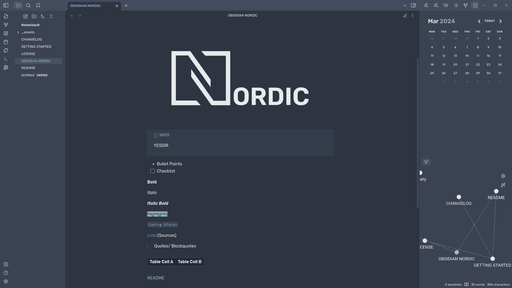
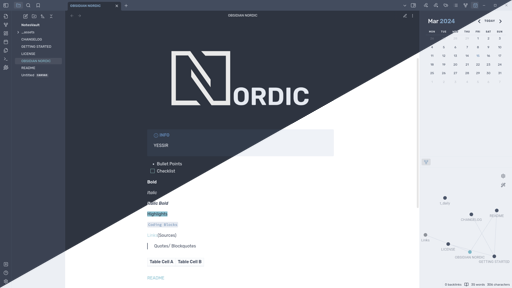
chore(project): update readme; update screenshot

diff --git a/README.md b/README.md
@@ -1,21 +1,20 @@
-# Obisidan Nordic
+# Nordic for Obsidian
 > A theme for obsidian inspired by https://www.nordtheme.com/ with a pinch of person preference
 
-[![Release](https://github.com/natowb/obsidian-nordic/actions/workflows/release.yml/badge.svg)](https://github.com/natowb/obsidian-nordic/actions/workflows/release.yml)
+![](assets/obsidian-nordic-full.png)
+
 ---
 
 
 
-![](assets/obsidian-nordic.png)
----
+## Plugins
+> This is a list of all the plugins the theme currently explicitly supports
 
-# Preview
-![](assets/dark-theme.png)
-![](assets/light-theme.png)
-
+- [Dataview](https://github.com/blacksmithgu/obsidian-dataview)
+- [Calendar](https://github.com/liamcain/obsidian-calendar-plugin)
 
 
-**Credits**
-- [obsidian nord](https://github.com/insanum/obsidian_nord): for the initial inspiration: 
-- **Rubik Font:** https://fonts.google.com/specimen/Rubik
+## Credits
+- [Rubik Font](https://fonts.google.com/specimen/Rubik): for the great font
 - [Nord Theme](https://www.nordtheme.com/): for the amazing palette 
+- [Obsidian Nord](https://github.com/insanum/obsidian_nord): for the initial inspiration
